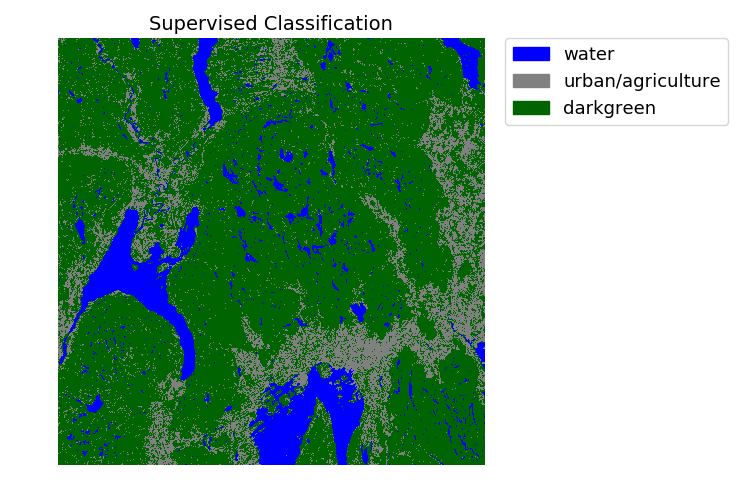
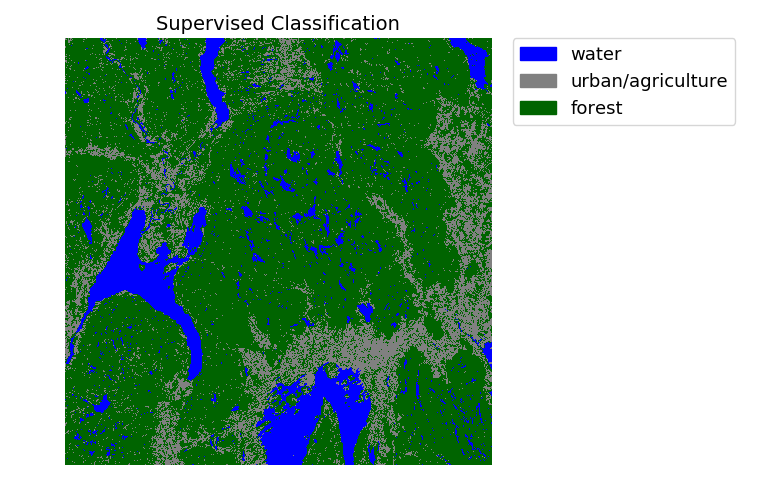
new file

Changed region(s): [[0.0613, 0.0312, 0.9813, 0.9688], [0.3067, 0.5625, 0.3373, 0.625]]

diff --git a/SupervisedClassification.py b/SupervisedClassification.py
@@ -29,7 +29,7 @@ height = meta_data['height']
 input_raster = original_file.read().astype(float)
 
 
-landcover_data  = gpd.read_file('Truth_Data.shp')
+landcover_data  = gpd.read_file('Truth_Data.shp'); print(landcover_data)
 pixels_data     = gpd.read_file('New_shapefile.shp')
 
 pixels_data.insert(0, column='landcovers', value=landcover_data['landcovers'].values)
@@ -46,8 +46,8 @@ class_ids = np.arange(classes.size)+1; #print(class_ids)
 Truth_Data['id'] = Truth_Data['landcovers'].map(dict(zip(classes, class_ids)))
 
 # Printing the final DataFrame 
-print(Truth_Data)
-
+print(Truth_Data.loc[130,:])
+sys.exit()
 
 # Inputs/features is the 6 landsat bands, and target is the class id:
 features = Truth_Data.loc[:, (Truth_Data.columns != 'landcovers') & \
@@ -93,7 +93,7 @@ nbr_colors = ['blue', 'grey', 'darkgreen']
 nbr_cmap   = ListedColormap(nbr_colors)
 
 # Define class names
-cat_names = ['water','urban/agriculture','darkgreen']
+cat_names = ['water','urban/agriculture','forest']
 
 classes_ids = class_ids.tolist()
 
